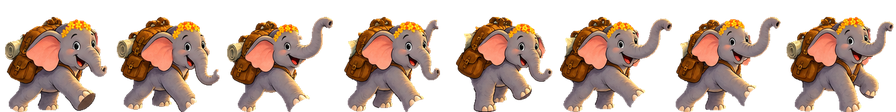
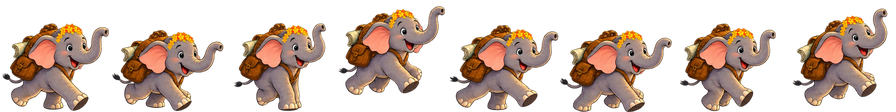
Spinner: new 8-frame run cycle; the slicer separates frames by connected pixels so overlapping trunks stay with their own frame, and keeps each frame's bounce over a shared ground line
🤖 Generated with Claude Code

diff --git a/web/sw.js b/web/sw.js
@@ -1,7 +1,7 @@
 // Service worker: offline app shell, polite tile cache (only tiles the map asked for),
 // network-only API. Bump SHELL_VERSION when shipping changes so clients refresh.
 
-const SHELL_VERSION = "v55"; // bump on every deploy that changes web/ — the shell is cache-first
+const SHELL_VERSION = "v56"; // bump on every deploy that changes web/ — the shell is cache-first
 const SHELL = `tg-shell-${SHELL_VERSION}`;
 const TILES = "tg-tiles";
 const IMAGES = "tg-images";

diff --git a/scripts/make-artwork.py b/scripts/make-artwork.py
@@ -44,21 +44,79 @@ def square(im, size, fill=0.86, bg=None):
     return canvas
 
 
+def components(alpha):
+    """Connected groups of opaque pixels, as lists of (x, y). Plain flood fill; a 2000 px row takes a second or two."""
+    w, h = alpha.size
+    px = alpha.load()
+    seen = bytearray(w * h)
+    out = []
+    for y0 in range(h):
+        for x0 in range(w):
+            if not px[x0, y0] or seen[y0 * w + x0]:
+                continue
+            stack, pixels = [(x0, y0)], []
+            seen[y0 * w + x0] = 1
+            while stack:
+                x, y = stack.pop()
+                pixels.append((x, y))
+                for nx, ny in ((x - 1, y), (x + 1, y), (x, y - 1), (x, y + 1)):
+                    if 0 <= nx < w and 0 <= ny < h and px[nx, ny] and not seen[ny * w + nx]:
+                        seen[ny * w + nx] = 1
+                        stack.append((nx, ny))
+            out.append(pixels)
+    return out
+
+
+def bbox_of(pixels):
+    xs = [x for x, _ in pixels]
+    ys = [y for _, y in pixels]
+    return (min(xs), min(ys), max(xs) + 1, max(ys) + 1)
+
+
+def split_row(sheet, frames):
+    """Separate the characters in a row by connected pixels, not by columns: a generator neither spaces
+    frames evenly nor keeps them apart, and a trunk reaching into the next frame's column belongs to
+    its own elephant. The `frames` biggest groups are the bodies; specks (a detached tail tuft) join
+    the nearest body. Returns [(image, bbox)] left to right, each image the size of the sheet."""
+    alpha = sheet.split()[3].point(lambda v: 255 if v > 8 else 0)
+    comps = sorted(components(alpha), key=len, reverse=True)
+    if len(comps) < frames or len(comps[frames - 1]) < len(comps[0]) * 0.25:
+        raise SystemExit(f"could not find {frames} separate characters in the row (touching frames?)")
+    bodies = comps[:frames]
+    boxes = [bbox_of(b) for b in bodies]
+    for speck in comps[frames:]:
+        sx = sum(x for x, _ in speck) / len(speck)
+        near = min(range(frames), key=lambda i: 0 if boxes[i][0] <= sx <= boxes[i][2] else min(abs(sx - boxes[i][0]), abs(sx - boxes[i][2])))
+        bodies[near].extend(speck)
+    order = sorted(range(frames), key=lambda i: boxes[i][0])
+    cells = []
+    for i in order:
+        mask = Image.new("L", sheet.size, 0)
+        mask.putdata([0] * (sheet.width * sheet.height))
+        mp = mask.load()
+        for x, y in bodies[i]:
+            mp[x, y] = 255
+        img = Image.new("RGBA", sheet.size, (0, 0, 0, 0))
+        img.paste(sheet, (0, 0), mask)
+        cells.append((img, bbox_of(bodies[i])))
+    return cells
+
+
 def sprite_sheet(src, frames=8, frame_px=112):
-    """Slice the run row into frames, crop them all to the same box (so the ground line stays put), and re-pack."""
+    """Re-pack the run frames on a shared ground line, so the bounce of a run cycle survives while
+    every frame sits in the same place on the sheet."""
     sheet = Image.open(src).convert("RGBA")
-    fw = sheet.width // frames
-    cells = [sheet.crop((i * fw, 0, (i + 1) * fw, sheet.height)) for i in range(frames)]
-    boxes = [c.split()[3].point(lambda v: 255 if v > 8 else 0).getbbox() for c in cells]
-    boxes = [b for b in boxes if b]
-    l, t = min(b[0] for b in boxes), min(b[1] for b in boxes)
-    r, btm = max(b[2] for b in boxes), max(b[3] for b in boxes)
-    side = max(r - l, btm - t)
+    cells = split_row(sheet, frames)
+    top = min(b[1] for _, b in cells)
+    bottom = max(b[3] for _, b in cells)
+    widest = max(b[2] - b[0] for _, b in cells)
+    side = max(widest, bottom - top)
     out = Image.new("RGBA", (frame_px * frames, frame_px), (0, 0, 0, 0))
-    for i, c in enumerate(cells):
-        cell = c.crop((l, t, r, btm))
+    for i, (img, b) in enumerate(cells):
+        cell = img.crop(b)
         canvas = Image.new("RGBA", (side, side), (0, 0, 0, 0))
-        canvas.alpha_composite(cell, ((side - cell.width) // 2, side - cell.height))  # feet on the bottom edge
+        y = side - (bottom - top) + (b[1] - top)  # each frame keeps its own height above the shared ground line
+        canvas.alpha_composite(cell, ((side - cell.width) // 2, y))
         out.alpha_composite(canvas.resize((frame_px, frame_px), RS), (i * frame_px, 0))
     return out
 
